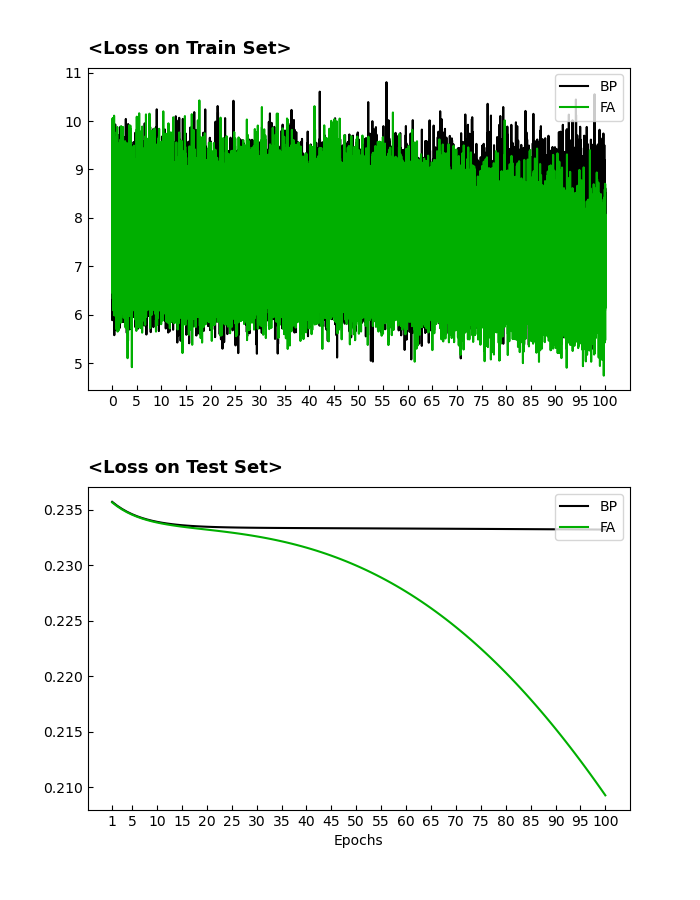
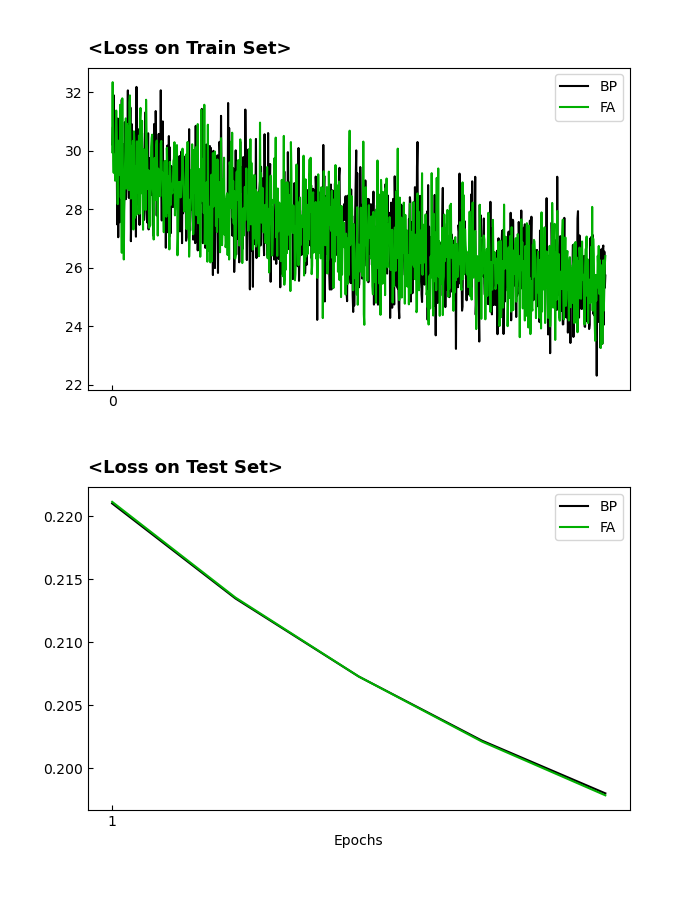
write 'calculate angle of vector between dh_BP and dh_FA'

diff --git a/task1_linearFunction.py b/task1_linearFunction.py
@@ -15,6 +15,8 @@ from plot import historyVisualizer
 
 from tqdm import tqdm
 
+import numpy as np
+
 class TaskOneModel(Model):
     '''
     ann.models.Model 클래스를 상속받아
@@ -23,21 +25,27 @@ class TaskOneModel(Model):
     def update_on_epoch(self, x, y):
         '''
         배치 단위로 구분된 데이터셋 쌍 x, y를 입력받아,
-        네트워크 epoch 1회 갱신 후, loss 리스트 반환
+        네트워크 epoch 1회 갱신 후, loss 리스트 및 Δh_BP 또는 Δh_FA 리스트 반환
         '''
         dataset_iter = tqdm(zip(x, y), total=len(x))
 
-        losses = []
+        losses, dhs = [], [] #dhs: Δh list
         for x, y in dataset_iter:
             y_hat = self.predict(x=x)
             loss = self.lossFunction.forwardProp(y_hat=y_hat, y=y)
 
             dLoss = self.lossFunction.backProp()
-            self.update_on_batch(dLoss)
 
+            #Δh_BP = transpose(W)·e, Δh_FA = B·e
+            dh = self.output_layer.backProp(dy=dLoss)
+
+            self.update_on_batch(dLoss)
             dataset_iter.set_description(f'Loss: {loss:.5f}')
+            dh = np.mean(dh, axis=0)
+
             losses.append(loss)
-        return losses
+            dhs.append(dh)
+        return losses, dhs
 
     def inference(self, x, y):
         '''
@@ -64,11 +72,12 @@ class TaskOneModel(Model):
 
         total_train_losses = []
         total_test_losses = []
+        total_dh_list = []
         for e in range(epoch):
             print(f'EPOCH ({e+1}/{epoch})')
             train_x, train_y = dataset.loadTrainDataset(batch_size=batch_size, is_shuffle=True)
 
-            train_losses = self.update_on_epoch(x=train_x, y=train_y)
+            train_losses, dhs = self.update_on_epoch(x=train_x, y=train_y)
             test_losses = self.inference(x=test_x, y=test_y)
             print()
 
@@ -76,7 +85,8 @@ class TaskOneModel(Model):
 
             total_train_losses.extend(train_losses)
             total_test_losses.append(test_loss)
-        return total_train_losses, total_test_losses
+            total_dh_list.extend(dhs)
+        return total_train_losses, total_test_losses, total_dh_list
 
 def create_network(affine_type: str='BP'):
     '''
@@ -100,9 +110,9 @@ def create_network(affine_type: str='BP'):
     return model
 
 if __name__ == '__main__':
-    EPOCH = 100
-    BATCH_SIZE = 64
-    LEARNING_RATE = 0.001
+    EPOCH = 2
+    BATCH_SIZE = 8
+    LEARNING_RATE = 0.005
 
     dataset = loader.LinearFunctionApproximation(train_dataset_size=25000, input_shape=30, output_shape=10, is_normalize=True)
 
@@ -112,12 +122,15 @@ if __name__ == '__main__':
     bp_model.compile(lossFunction=lossFunctions.SE(), optimizer=optimizers.SGD(learning_rate=LEARNING_RATE))
     fa_model.compile(lossFunction=lossFunctions.SE(), optimizer=optimizers.SGD(learning_rate=LEARNING_RATE))
 
-    bp_train_his, bp_test_his = bp_model.update_network(dataset=dataset, epoch=EPOCH, batch_size=BATCH_SIZE)
-    fa_train_his, fa_test_his = fa_model.update_network(dataset=dataset, epoch=EPOCH, batch_size=BATCH_SIZE)
+    bp_train_his, bp_test_his, h_BPs = bp_model.update_network(dataset=dataset, epoch=EPOCH, batch_size=BATCH_SIZE)
+    fa_train_his, fa_test_his, h_FAs = fa_model.update_network(dataset=dataset, epoch=EPOCH, batch_size=BATCH_SIZE)
+
+    print(h_BPs)
+    exit()
     
     historyVisualizer.visualize(
         path='./plot/images/task1_linearFunction.png',
         train_losses={'BP': bp_train_his, 'FA': fa_train_his},
         test_losses={'BP': bp_test_his, 'FA': fa_test_his},
-        epoch=EPOCH
+        epoch=EPOCH, tick_step=100
     )

diff --git a/plot/historyVisualizer.py b/plot/historyVisualizer.py
@@ -10,8 +10,9 @@ def __pltDefaultSetting(plt, title: str, ticks, labels):
     plt.tick_params(axis='x', direction='in')
     plt.tick_params(axis='y', direction='in')
 
-def visualize(path: str, train_losses: dict, test_losses: dict, epoch: int):
+def visualize(path: str, train_losses: dict, test_losses: dict, epoch: int, tick_step: int):
     COLOR_LIST = ['#000000', '#00AF00']
+
 
     plt.figure(figsize=(7, 9))
     plt.subplots_adjust(left=0.125, bottom=0.1, right=0.9, top=0.925, wspace=0.1, hspace=0.3)
@@ -24,8 +25,8 @@ def visualize(path: str, train_losses: dict, test_losses: dict, epoch: int):
 
     size_per_epoch = int(len(losses) / epoch) - 1
     
-    ticks = tuple(e * size_per_epoch for e in range(0, epoch+1, 5))
-    labels = tuple(range(0, epoch+1, 5))
+    ticks = tuple(e * size_per_epoch for e in range(0, epoch+1, tick_step))
+    labels = tuple(range(0, epoch+1, tick_step))
 
     __pltDefaultSetting(plt, title='<Loss on Train Set>', ticks=ticks, labels=labels)
     #End=====================================
@@ -37,9 +38,9 @@ def visualize(path: str, train_losses: dict, test_losses: dict, epoch: int):
         plt.plot(losses, color=color, label=name)
     plt.legend(loc='upper right')
 
-    ticks = list(range(-1, epoch+1, 5))
+    ticks = list(range(-1, epoch+1, tick_step))
     ticks[0] = 0
-    labels = list(range(0, epoch+1, 5))
+    labels = list(range(0, epoch+1, tick_step))
     labels[0] = 1
 
     __pltDefaultSetting(plt, title='<Loss on Test Set>', ticks=ticks, labels=labels)

diff --git a/task2_mnistDataset.py b/task2_mnistDataset.py
@@ -126,5 +126,5 @@ if __name__ == '__main__':
         path='./plot/images/task2_mnistDataset.png',
         train_losses={'BP': bp_train_his, 'FA': fa_train_his},
         test_losses={'BP': bp_test_his, 'FA': fa_test_his},
-        epoch=EPOCH
+        epoch=EPOCH, tick_step=5
     )
